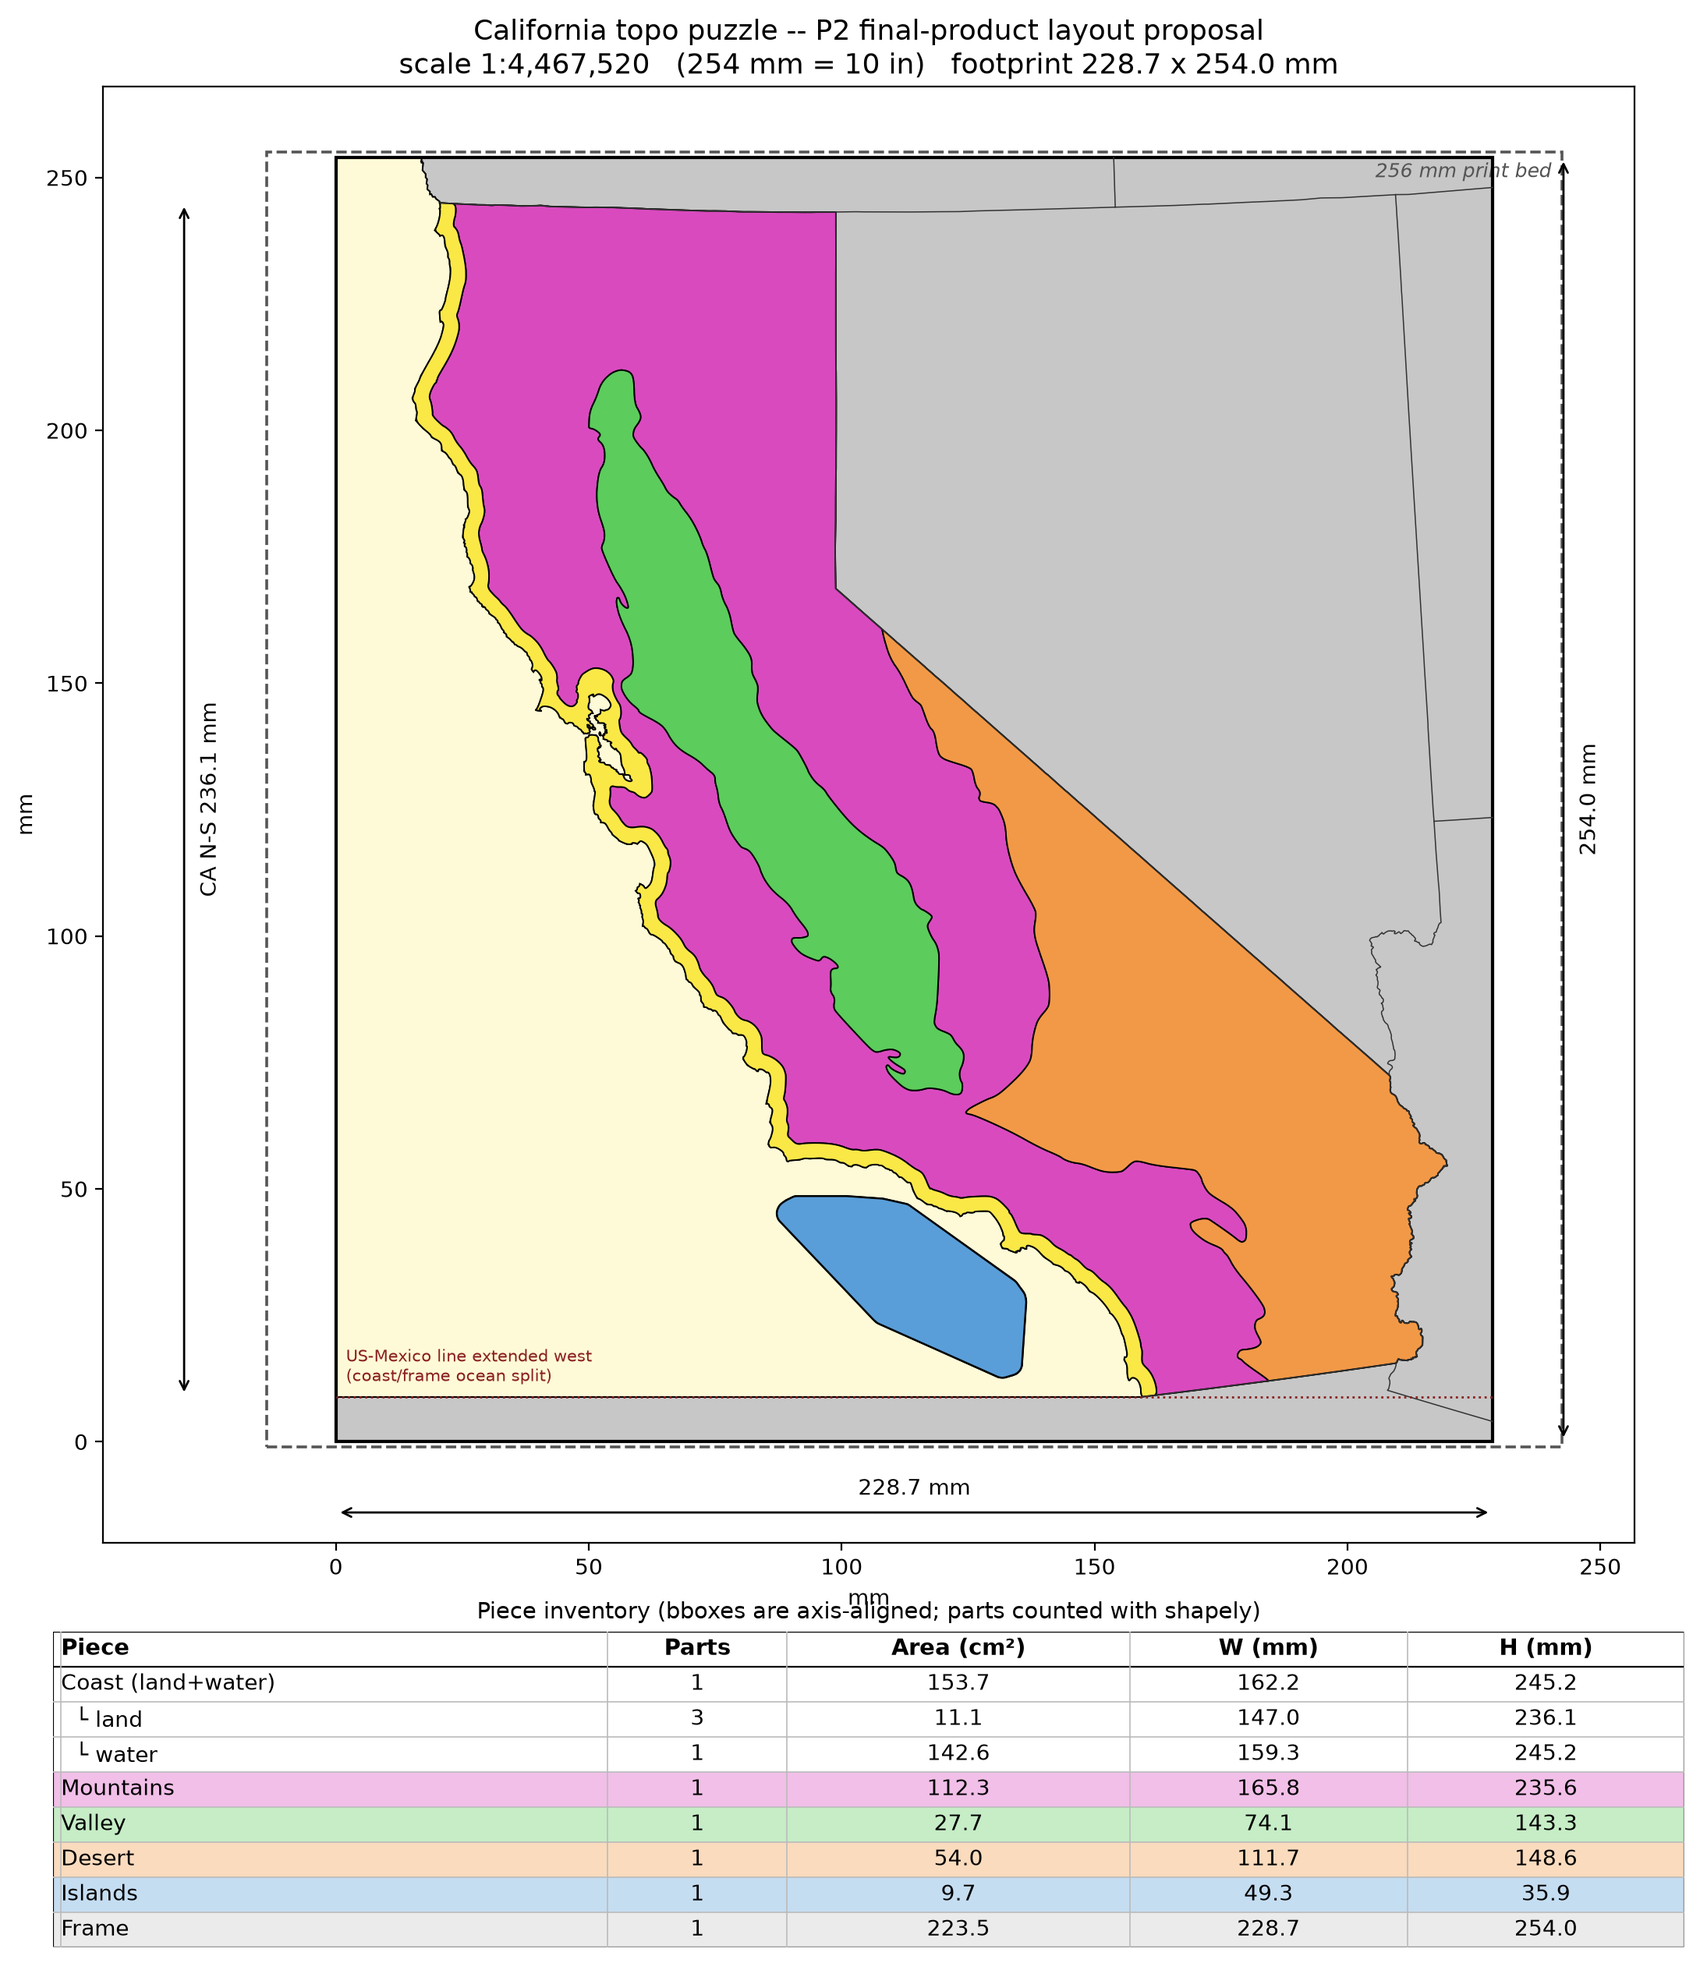
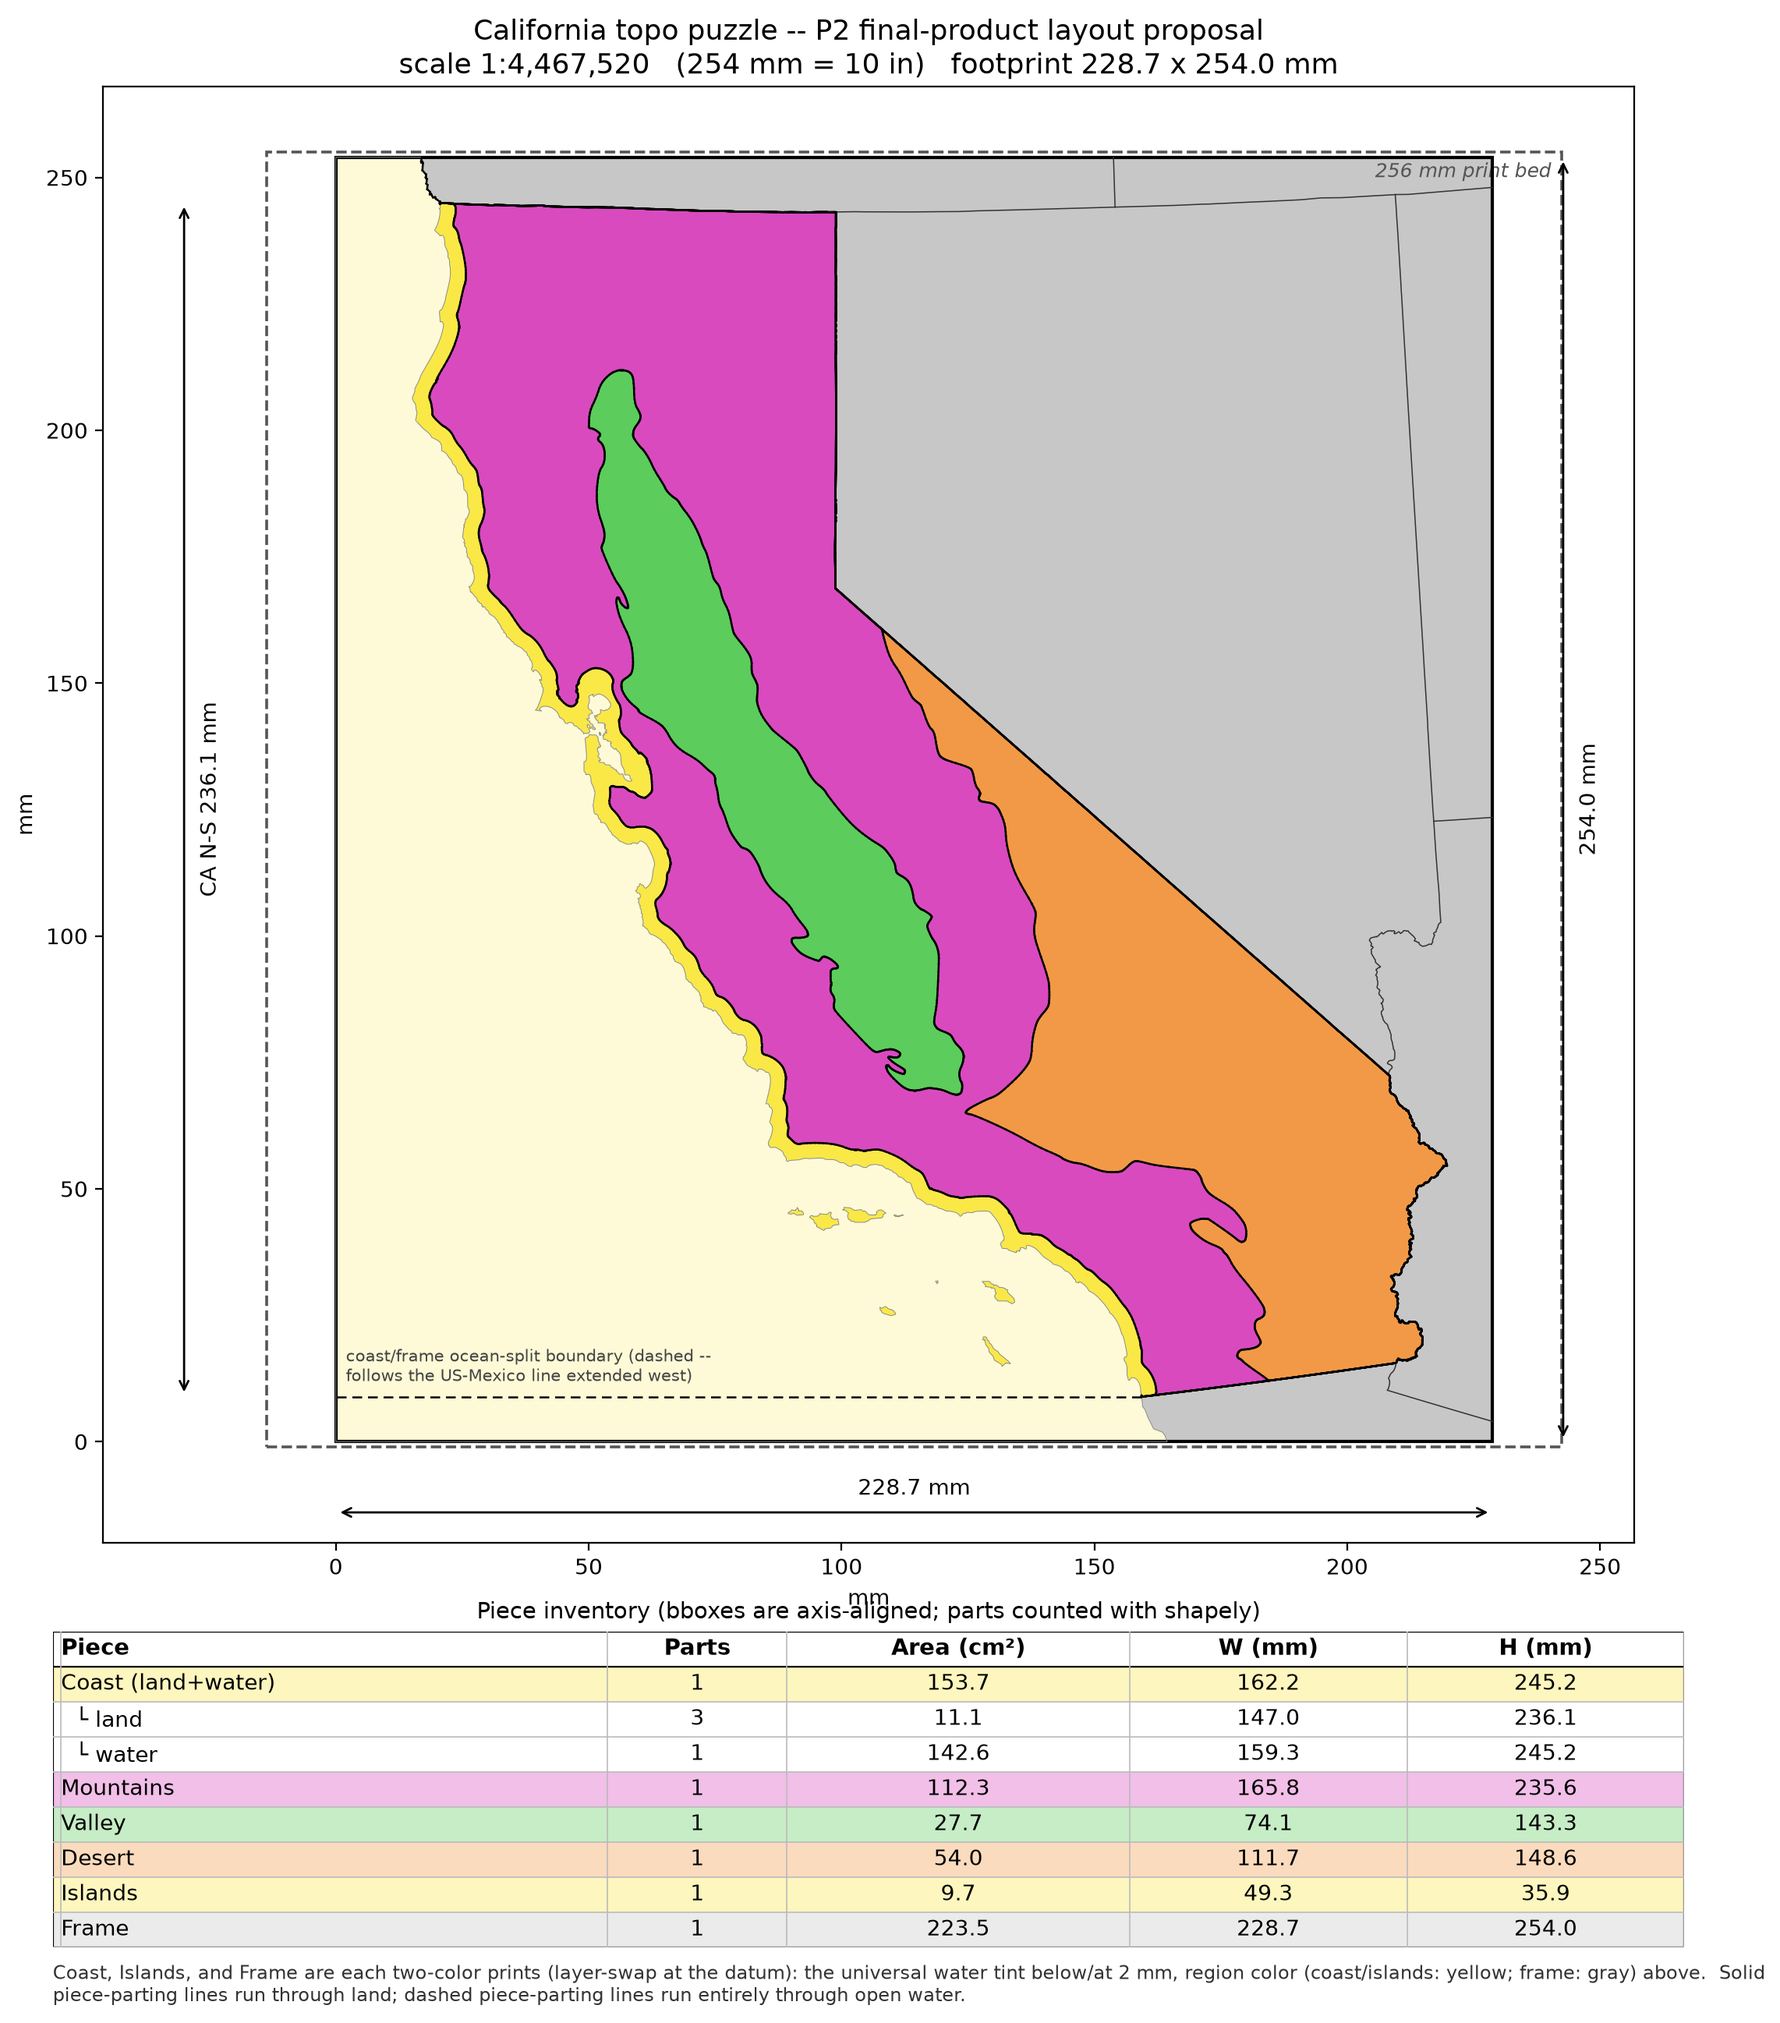
D15: surround piece (3-color AMS: gray/water/coast-yellow incl. islands) + 3 removable region pieces; islands piece scrapped
Claude-Session: https://claude.ai/code/session_01UmyBij4BnZ6xjWXXCv2QxT

diff --git a/pipeline/p2_layout.py b/pipeline/p2_layout.py
@@ -73,10 +73,10 @@ PAD_KM = 40.0        # D13 window margin N/E/S (matches p15_engraved.py)
 WEST_PAD_KM = 67.5   # D13 window open-Pacific margin W
 
 FRAME_COLOR = (0.78, 0.78, 0.78)
-ISLANDS_COLOR = (0.35, 0.62, 0.85)
-WATER_MIX = 0.78     # coast-water fill = the coast land color lightened
-                     # this far toward white (paler tint, same hue family,
-                     # so it still reads as "the coast piece, just water")
+WATER_MIX = 0.78     # universal water tint = the coast land color
+                     # lightened this far toward white (paler tint, same
+                     # hue family) -- ONE color for every drop of water in
+                     # the window, regardless of which piece owns it
 
 REGION_NAMES = {base.MOUNTAINS: "mountains", base.VALLEY: "valley",
                 base.DESERT: "desert", base.COAST: "coast"}
@@ -193,6 +193,18 @@ def extract_arcs(R):
             if (min(n, nb), max(n, nb)) not in visited:
                 arcs.append(walk(n, nb))
     return arcs, CW
+
+
+def _iter_lines(geom):
+    """Flatten a shapely geometry (a boundary-intersection result can be a
+    GeometryCollection with stray points) down to its LineString parts."""
+    if geom.is_empty:
+        return
+    if geom.geom_type == "LineString":
+        yield geom
+    elif geom.geom_type in ("MultiLineString", "GeometryCollection"):
+        for g in geom.geoms:
+            yield from _iter_lines(g)
 
 
 def arc_coords(path, CW, x0, y1):
@@ -387,6 +399,34 @@ def build_layout():
     if coast_full.geom_type == "Polygon":
         coast_full = shapely.MultiPolygon([coast_full])
 
+    # ahl's correction: ocean is ONE continuous water color regardless of
+    # which piece owns it (frame's southern water and islands' shelf are
+    # not gray/blue -- they're the same tint as coast-water). Vectorize
+    # the whole window's sea (ungated, unexcluded -- so it already has a
+    # correctly-shaped hole for every land mass, including the islands'
+    # own land and out-of-state land) and clean it against the four exact
+    # CA-mainland vectors the same way coast-water was cleaned above.
+    W_all = np.zeros((r1 - r0, c1 - c0), np.uint8)
+    W_all[sea] = 1
+    water_all = vectorize_labels(W_all, x0, y1, [1])[1]
+    water_all = shapely.set_precision(water_all, 1.0)
+    exact_ca_land = shapely.union_all(
+        [regions["mountains"], regions["valley"], regions["desert"],
+         regions["coast"]], grid_size=1.0)
+    water_all = shapely.difference(water_all, exact_ca_land, grid_size=1.0)
+    if water_all.geom_type == "Polygon":
+        water_all = shapely.MultiPolygon([water_all])
+
+    # frame's and the islands piece's own land sub-areas, for the
+    # region-palette/gray fill -- everything else in each piece is water,
+    # painted with the single universal tint.
+    frame_land = frame.difference(water_all)
+    island_land = regions["islands"].difference(water_all)
+    if frame_land.geom_type == "Polygon":
+        frame_land = shapely.MultiPolygon([frame_land])
+    if island_land.geom_type == "Polygon":
+        island_land = shapely.MultiPolygon([island_land])
+
     pieces = {
         "coast_land": regions["coast"],
         "coast_water": coast_water,
@@ -395,11 +435,45 @@ def build_layout():
         "valley": regions["valley"],
         "desert": regions["desert"],
         "islands": regions["islands"],
+        "island_land": island_land,
         "frame": frame,
+        "frame_land": frame_land,
+        "water_all": water_all,
     }
     # pinhole-sized (few m^2) interior rings from the polygonize round trip
     # would otherwise render as a stray dot at print resolution
     pieces = {k: drop_tiny_holes(g) for k, g in pieces.items()}
+
+    # piece-parting lines (drawn distinctly from same-piece land/water
+    # seams): for every pair of the 6 physical pieces, the shared boundary
+    # is solid where it touches ANY land (a real, informative edge -- an
+    # interior CA border, a state line, or a piece boundary that follows
+    # an actual coastline) and dashed where it runs entirely through open
+    # water with land on neither side (the coast/frame ocean-split gate
+    # line; the islands piece's outline, wholly inside coast-water).
+    land_all = shapely.union_all(
+        [regions["mountains"], regions["valley"], regions["desert"],
+         regions["coast"], pieces["island_land"], pieces["frame_land"]])
+    piece_polys = {"mountains": regions["mountains"],
+                  "valley": regions["valley"], "desert": regions["desert"],
+                  "coast": pieces["coast"], "islands": regions["islands"],
+                  "frame": pieces["frame"]}
+    names = list(piece_polys)
+    land_lines, water_lines = [], []
+    for i in range(len(names)):
+        for j in range(i + 1, len(names)):
+            shared = piece_polys[names[i]].boundary.intersection(
+                piece_polys[names[j]].boundary)
+            for ln in _iter_lines(shared):
+                if ln.length < 1.0:
+                    continue
+                if ln.buffer(30.0).intersects(land_all):
+                    land_lines.append(ln)
+                else:
+                    water_lines.append(ln)
+    pieces["_parting_land_lines"] = land_lines
+    pieces["_parting_water_lines"] = water_lines
+
     bbox = (x0, x1, y0, y1)
     return pieces, bbox, ca_rows, gate_y
 
@@ -429,7 +503,7 @@ def render(pieces, bbox, ca_rows, gate_y):
                                     (c[:, 1] - y0) * scale])
         return shapely.transform(geom, f)
 
-    mm_pieces = {k: to_mm(g) for k, g in pieces.items()}
+    mm_pieces = {k: to_mm(g) for k, g in pieces.items() if not k.startswith("_")}
 
     ca_r0, ca_r1 = ca_rows
     ca_y1 = Y1 - ca_r0 * RES
@@ -444,14 +518,15 @@ def render(pieces, bbox, ca_rows, gate_y):
         "mountains": base.COLORS[base.MOUNTAINS],
         "valley": base.COLORS[base.VALLEY],
         "desert": base.COLORS[base.DESERT],
+        "coast": base.COLORS[base.COAST],
         "coast_land": base.COLORS[base.COAST],
-        "islands": ISLANDS_COLOR,
+        "islands": base.COLORS[base.COAST],  # islands land = coast-yellow
         "frame": FRAME_COLOR,
     }
     coast_rgb = base.COLORS[base.COAST]
     water_rgb = tuple(c + (1.0 - c) * WATER_MIX for c in coast_rgb)
 
-    def draw_mp(ax, mp, color, lw=0.7, zorder=2):
+    def draw_mp(ax, mp, color, lw=0.0, edgecolor="none", zorder=2):
         if mp.is_empty:
             return
         polys = mp.geoms if hasattr(mp, "geoms") else [mp]
@@ -462,8 +537,23 @@ def render(pieces, bbox, ca_rows, gate_y):
                 verts.append(arr)
                 codes.append([MplPath.MOVETO] + [MplPath.LINETO] * (len(arr) - 1))
         path = MplPath(np.concatenate(verts), np.concatenate(codes))
-        ax.add_patch(PathPatch(path, facecolor=color, edgecolor="black",
+        ax.add_patch(PathPatch(path, facecolor=color, edgecolor=edgecolor,
                                linewidth=lw, zorder=zorder))
+
+    def draw_boundary(ax, mp, **kw):
+        if mp.is_empty:
+            return
+        polys = mp.geoms if hasattr(mp, "geoms") else [mp]
+        for p in polys:
+            for ring in [p.exterior, *p.interiors]:
+                arr = np.asarray(ring.coords)
+                ax.plot(arr[:, 0], arr[:, 1], **kw)
+
+    def plot_line(ax, ln, **kw):
+        arr = np.asarray(ln.coords)
+        mmx = (arr[:, 0] - x0) * scale
+        mmy = (arr[:, 1] - y0) * scale
+        ax.plot(mmx, mmy, **kw)
 
     fig = plt.figure(figsize=(13.5, 15.5), dpi=200)
     gs = fig.add_gridspec(2, 1, height_ratios=[5.3, 1.15], hspace=0.10)
@@ -483,15 +573,25 @@ def render(pieces, bbox, ca_rows, gate_y):
     ax.add_patch(Rectangle((0, 0), fp_w, fp_h, fill=False,
                            edgecolor="black", linewidth=1.5, zorder=5))
 
-    draw_mp(ax, mm_pieces["frame"], COLORS["frame"], zorder=2)
-    draw_mp(ax, mm_pieces["coast_water"], water_rgb, zorder=2)
+    # Fill order: ONE continuous water tint for every drop of water in the
+    # window first (ahl's correction), then non-CA land (frame) gray, then
+    # the CA region palette on top, then the islands' own land patch in
+    # the same yellow as the coast piece's land.
+    draw_mp(ax, mm_pieces["water_all"], water_rgb, zorder=1)
+    draw_mp(ax, mm_pieces["frame_land"], COLORS["frame"], zorder=2)
     draw_mp(ax, mm_pieces["mountains"], COLORS["mountains"], zorder=3)
     draw_mp(ax, mm_pieces["valley"], COLORS["valley"], zorder=3)
     draw_mp(ax, mm_pieces["desert"], COLORS["desert"], zorder=3)
     draw_mp(ax, mm_pieces["coast_land"], COLORS["coast_land"], zorder=3)
-    draw_mp(ax, mm_pieces["islands"], COLORS["islands"], lw=0.9, zorder=4)
+    draw_mp(ax, mm_pieces["island_land"], COLORS["islands"], zorder=4)
 
-    # political borders (thin lines on the frame)
+    # thin hint line at every land/water transition (coastlines proper --
+    # not piece boundaries, just a legibility aid now that water is a
+    # single flat color everywhere)
+    draw_boundary(ax, mm_pieces["water_all"], color="#8a8a8a",
+                 linewidth=0.35, zorder=5)
+
+    # political borders (thin lines on the frame, for context)
     gj = json.loads((DATA / "p2_borders.geojson").read_text())
     win = box(x0, y0, x1, y1)
     for f in gj["features"]:
@@ -507,11 +607,21 @@ def render(pieces, bbox, ca_rows, gate_y):
             mmy = (arr[:, 1] - y0) * scale
             ax.plot(mmx, mmy, color="#333333", linewidth=0.55, zorder=6)
 
-    # gate line marker (dotted), the ocean-split proposal
-    ax.plot([0, fp_w], [gate_mm, gate_mm], ":", color="#8a2020",
-           linewidth=1.0, zorder=6)
-    ax.text(2, gate_mm + 2, "US-Mexico line extended west\n(coast/frame "
-           "ocean split)", fontsize=7.5, color="#8a2020", va="bottom")
+    # piece-parting lines: solid where the seam touches land anywhere
+    # along its length (a real, informative edge -- interior CA borders,
+    # state lines, or a piece boundary that follows an actual coastline);
+    # dashed where the seam runs entirely through open water with land on
+    # neither side (the coast/frame ocean-split gate line; the islands
+    # piece's outline, which sits wholly inside coast-water).
+    for ln in pieces["_parting_land_lines"]:
+        plot_line(ax, ln, color="black", linewidth=0.9, zorder=7)
+    for ln in pieces["_parting_water_lines"]:
+        plot_line(ax, ln, color="black", linewidth=0.9,
+                 linestyle=(0, (5, 3)), zorder=7)
+
+    ax.text(2, gate_mm + 2, "coast/frame ocean-split boundary (dashed --\n"
+           "follows the US-Mexico line extended west)",
+           fontsize=7.5, color="#444444", va="bottom", zorder=7)
 
     def dim_h(y, x_a, x_b, label, off=8):
         ax.annotate("", xy=(x_b, y), xytext=(x_a, y),
@@ -603,6 +713,13 @@ def render(pieces, bbox, ca_rows, gate_y):
         axt.plot([x, x], [0, 1], color="#bbbbbb", linewidth=0.6)
     axt.add_patch(Rectangle((0, 0), 1, 1, fill=False, edgecolor="black",
                             linewidth=0.8))
+    axt.text(0.0, -0.05,
+             "Coast, Islands, and Frame are each two-color prints (layer-"
+             "swap at the datum): the universal water tint below/at 2 mm, "
+             "region color (coast/islands: yellow; frame: gray) above.  "
+             "Solid piece-parting lines run through land; dashed "
+             "piece-parting lines run entirely through open water.",
+             fontsize=8.5, ha="left", va="top", color="#333333", wrap=True)
 
     fig.savefig(OUT / "p2_layout.png", bbox_inches="tight")
     print(f"wrote {OUT / 'p2_layout.png'}")

diff --git a/NOTES.md b/NOTES.md
@@ -25,6 +25,7 @@ set into a frame of the surrounding geography.
 | D6 | Print bed 256×256 mm; whole model ≤ 1000×1000 mm total | Either frame fits one bed, or frame is carved into tiles |
 | D7 | Material: PLA. Fit: snug but disassemblable | Clearance values TBD (see G3) |
 | D8 | Version control: jj (colocated git), repo = this directory | |
+| D15 | **PIECE PLAN REVISED (ahl 2026-09-13, supersedes D2/G11 piece-hood):** the model = ONE SURROUND piece + THREE removable pieces (Mountains, Valley, Desert). The surround is a 3-color AMS multi-body print: gray non-CA land + continuous water + yellow coastal band, with the Channel Islands as yellow islands ON the surround (islands piece SCRAPPED). Coast is not removable — it is printed into the surround. Multi-body 3MF path already validated (NOTES-3mf.md). | |
 | D14 | **Color spec (ahl 2026-09-13):** the ocean is ONE continuous water color across the whole map — it continues along the Oregon and Mexico coasts, regardless of piece ownership; all non-California land = frame gray; CA regions = their piece colors. Frame and coast pieces are each two-color prints via a filament swap at datum z (water at/below 2 mm, gray/region color above). Piece parting lines through open water are physically real but color-invisible. | |
 | D12 | Automation contract: **`make`** rebuilds exactly the stale artifacts. Every stage target depends on config.toml + overrides/*.geojson + its script + upstream artifacts, so markup/knob changes can never be silently ignored (the P4 stale-cache bug class). Stages: p0 p1 p2 p15 p15b p4; `make -n` previews. | ahl 2026-09-13 |
 | D13 | **Final-map aspect = the P1.5 slab at 135 x 150** (CA bbox + 40 km N/E/S + 67.5 km ocean west; 0.9 aspect). ahl 2026-09-13: "we're going to use that aspect ratio for the final map" | |
